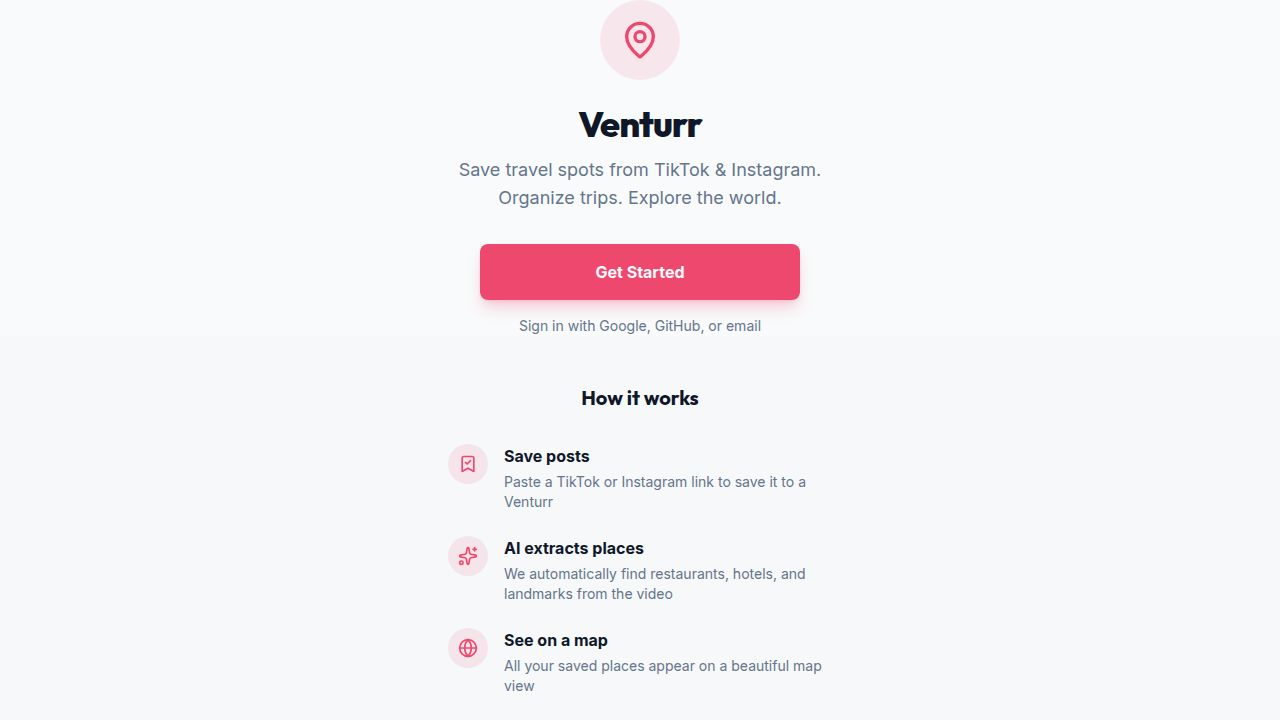
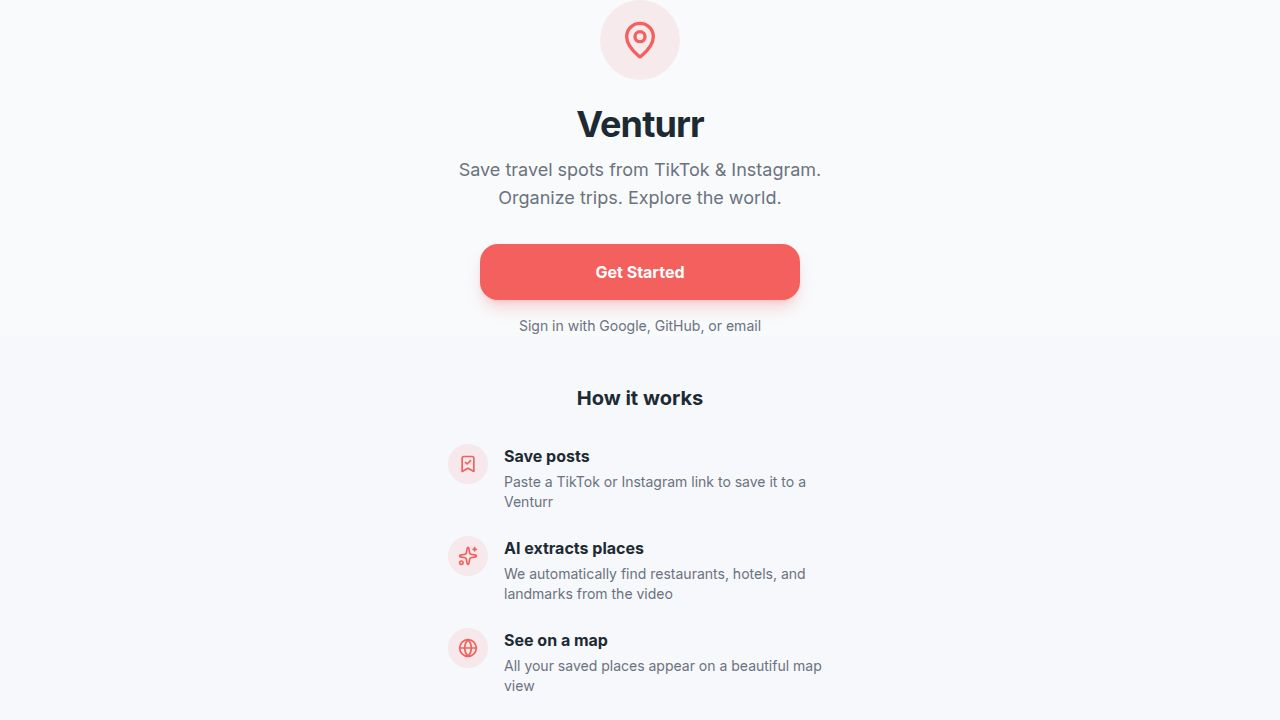
Update app design and styling to new brand standards
Apply new color palette, typography, and app icon across the application, updating styles in CSS, mobile color definitions, and app configuration.

Replit-Commit-Author: Agent
Replit-Commit-Session-Id: b501a51c-6f18-4266-89c9-7217e65b8779
Replit-Commit-Checkpoint-Type: intermediate_checkpoint
Replit-Commit-Event-Id: b0377623-d857-4f1b-a44d-a13ac360f58b
Replit-Commit-Screenshot-Url: https://storage.googleapis.com/screenshot-production-us-central1/9c2885cd-cb77-4d21-a283-5b8eb14639c5/b501a51c-6f18-4266-89c9-7217e65b8779/frAfLLM
Replit-Helium-Checkpoint-Created: true

diff --git a/client/src/index.css b/client/src/index.css
@@ -24,81 +24,93 @@
   --color-input: hsl(var(--input));
   --color-ring: hsl(var(--ring));
   
-  --font-sans: 'Inter', sans-serif;
-  --font-heading: 'Outfit', sans-serif;
+  /* Venturr Design System v1.0 */
+  --font-sans: 'Inter', -apple-system, SF Pro, system-ui, sans-serif;
   
-  --radius-lg: var(--radius);
-  --radius-md: calc(var(--radius) - 2px);
-  --radius-sm: calc(var(--radius) - 4px);
+  --radius-lg: 18px;
+  --radius-md: 14px;
+  --radius-sm: 8px;
   
-  --animate-in: fade-in 0.2s ease-out;
-  --animate-out: fade-out 0.2s ease-in;
-  --animate-slide-in-from-bottom: slide-in-from-bottom 0.3s cubic-bezier(0.16, 1, 0.3, 1);
-  --animate-slide-in-from-right: slide-in-from-right 0.3s cubic-bezier(0.16, 1, 0.3, 1);
+  --shadow-sm: 0 4px 14px rgba(31,41,51,0.08);
+  
+  --animate-in: fade-in 0.25s ease-in-out;
+  --animate-out: fade-out 0.25s ease-in-out;
+  --animate-slide-in-from-bottom: slide-in-from-bottom 0.3s ease-in-out;
+  --animate-slide-in-from-right: slide-in-from-right 0.3s ease-in-out;
 }
 
 :root {
-  /* Clean, iOS-inspired Light Mode */
-  --background: 210 20% 98%; /* Soft cool grey/white */
-  --foreground: 222 47% 11%;
+  /* Venturr Design System v1.0 - Light Mode */
+  --background: 210 40% 98%; /* Neutral 50 #F8FAFC */
+  --foreground: 208 26% 16%; /* Gunmetal 900 #1F2933 */
   
-  --card: 0 0% 100%;
-  --card-foreground: 222 47% 11%;
+  --card: 0 0% 100%; /* Neutral 0 #FFFFFF */
+  --card-foreground: 208 26% 16%; /* Gunmetal 900 */
   
   --popover: 0 0% 100%;
-  --popover-foreground: 222 47% 11%;
+  --popover-foreground: 208 26% 16%;
   
-  --primary: 346 84% 61%; /* Coral - Vibrant Travel Color */
-  --primary-foreground: 210 40% 98%;
+  --primary: 1 86% 66%; /* Coral 500 #F25F5C */
+  --primary-foreground: 0 0% 100%;
   
-  --secondary: 210 40% 96.1%;
-  --secondary-foreground: 222 47% 11.2%;
+  --secondary: 210 40% 96%;
+  --secondary-foreground: 208 26% 16%;
   
-  --muted: 210 40% 96.1%;
-  --muted-foreground: 215 16% 47%;
+  --muted: 210 40% 96%;
+  --muted-foreground: 220 8% 46%; /* Gunmetal 500 #6B7280 */
   
-  --accent: 210 40% 96.1%;
-  --accent-foreground: 222 47% 11.2%;
+  --accent: 210 40% 96%;
+  --accent-foreground: 208 26% 16%;
   
-  --destructive: 0 84.2% 60.2%;
-  --destructive-foreground: 210 40% 98%;
+  --destructive: 0 84% 60%;
+  --destructive-foreground: 0 0% 100%;
 
-  --border: 214 32% 91%;
+  --border: 214 32% 91%; /* Neutral 200 #E2E8F0 */
   --input: 214 32% 91%;
-  --ring: 346 84% 61%;
+  --ring: 1 86% 66%; /* Coral 500 */
   
-  --radius: 0.5rem;
+  /* Semantic colors */
+  --success: 158 54% 49%; /* #4CAF93 */
+  --warning: 42 90% 60%; /* #F4B740 */
+  --info: 220 92% 63%; /* #4C82F7 */
+  
+  --radius: 14px;
 }
 
 .dark {
-  /* Deep Modern Dark Mode */
-  --background: 222 47% 11%;
+  /* Venturr Design System v1.0 - Dark Mode */
+  --background: 208 26% 12%; /* Dark gunmetal */
   --foreground: 210 40% 98%;
   
-  --card: 222 47% 13%; /* Slightly lighter than bg */
+  --card: 208 26% 16%; /* Gunmetal 900 */
   --card-foreground: 210 40% 98%;
   
-  --popover: 222 47% 11%;
+  --popover: 208 26% 14%;
   --popover-foreground: 210 40% 98%;
   
-  --primary: 346 84% 61%;
-  --primary-foreground: 210 40% 98%;
+  --primary: 1 86% 66%; /* Coral 500 */
+  --primary-foreground: 0 0% 100%;
   
-  --secondary: 217 32% 17%;
+  --secondary: 208 20% 20%;
   --secondary-foreground: 210 40% 98%;
   
-  --muted: 217 32% 17%;
-  --muted-foreground: 215 20% 65%;
+  --muted: 208 20% 20%;
+  --muted-foreground: 220 8% 60%;
   
-  --accent: 217 32% 17%;
+  --accent: 208 20% 20%;
   --accent-foreground: 210 40% 98%;
   
-  --destructive: 0 62.8% 30.6%;
-  --destructive-foreground: 210 40% 98%;
+  --destructive: 0 84% 60%;
+  --destructive-foreground: 0 0% 100%;
   
-  --border: 217 32% 17%;
-  --input: 217 32% 17%;
-  --ring: 346 84% 61%;
+  --border: 208 20% 22%;
+  --input: 208 20% 22%;
+  --ring: 1 86% 66%; /* Coral 500 */
+  
+  /* Semantic colors */
+  --success: 158 54% 49%;
+  --warning: 42 90% 60%;
+  --info: 220 92% 63%;
 }
 
 @layer base {

diff --git a/mobile/lib/colors.ts b/mobile/lib/colors.ts
@@ -1,15 +1,27 @@
+/**
+ * Venturr Design System v1.0
+ * Color palette following brand guidelines
+ */
 export const colors = {
-  primary: '#FF385C',
-  primaryLight: '#FFE4E8',
-  background: '#FFFFFF',
-  surface: '#F7F7F7',
-  text: '#222222',
-  textSecondary: '#717171',
-  textMuted: '#B0B0B0',
-  border: '#EBEBEB',
-  success: '#00A699',
-  error: '#FF5A5F',
-  warning: '#FFB400',
+  // Primary Brand
+  primary: '#F25F5C', // Coral 500 - Primary CTAs
+  primaryLight: '#FCEAEA', // Light coral for backgrounds
+  
+  // Gunmetal - Text hierarchy
+  text: '#1F2933', // Gunmetal 900 - Headlines, primary text
+  textSecondary: '#3A4753', // Gunmetal 700 - Secondary text
+  textMuted: '#6B7280', // Gunmetal 500 - Metadata, icons
+  
+  // Neutrals - Layout & surfaces
+  background: '#F8FAFC', // Neutral 50 - App background
+  surface: '#FFFFFF', // Neutral 0 - Cards
+  border: '#E2E8F0', // Neutral 200 - Borders
+  
+  // Semantic
+  success: '#4CAF93',
+  error: '#F25F5C', // Use primary for destructive
+  warning: '#F4B740',
+  info: '#4C82F7',
 };
 
 export const spacing = {
@@ -22,8 +34,18 @@ export const spacing = {
 
 export const radius = {
   sm: 8,
-  md: 12,
-  lg: 16,
+  md: 14, // Primary card radius
+  lg: 18, // Large cards
   xl: 24,
   full: 9999,
+};
+
+export const shadow = {
+  sm: {
+    shadowColor: '#1F2933',
+    shadowOffset: { width: 0, height: 4 },
+    shadowOpacity: 0.08,
+    shadowRadius: 14,
+    elevation: 3,
+  },
 };

diff --git a/replit.md b/replit.md
@@ -60,12 +60,51 @@ All endpoints require authentication (except /api/login, /api/logout, /api/callb
 - `POST /api/collections/:id/posts` - Add post (triggers AI extraction)
 - `GET /api/collections/:id/places` - Get places in Venturr
 
-## User Preferences
-- Design: Modern iOS-style with coral primary color (#FF385C)
-- Typography: Outfit for headings, Inter for body text
-- Corners: 0.5rem/8px rounded (not overly bubbly)
+## Venturr Design System v1.0
+
+### Brand Personality
+Quietly smart, calm, modern, intentional, trustworthy. Think: Pinterest + Notion + maps, not Expedia or TikTok.
+
+### Color Palette
+```css
+/* Primary */
+--coral-500: #F25F5C;      /* Primary CTAs, brand accent */
+
+/* Gunmetal - Text hierarchy */
+--gunmetal-900: #1F2933;   /* Headlines, primary text */
+--gunmetal-700: #3A4753;   /* Secondary text */
+--gunmetal-500: #6B7280;   /* Metadata, icons */
+
+/* Neutrals - Layout */
+--neutral-50: #F8FAFC;     /* App background */
+--neutral-0: #FFFFFF;      /* Cards */
+--neutral-200: #E2E8F0;    /* Borders */
+
+/* Semantic */
+--success: #4CAF93;
+--warning: #F4B740;
+--info: #4C82F7;
+```
+
+### Typography
+- Font: Inter (system fallback: -apple-system, SF Pro)
+- Headings: 600 weight
+- Body: 400 weight
+- No emojis in core UI
+
+### Spacing & Radius
+- radius-md: 14px (primary cards)
+- radius-lg: 18px (large cards)
+- shadow-sm: 0 4px 14px rgba(31,41,51,0.08)
+
+### Design Guidelines
+- Coral guides attention (CTAs, active states, highlights)
+- Never use coral for body text
+- Cards are the core metaphor (white on neutral background)
+- Be transparent about AI (label AI-suggested content)
 
 ## Recent Changes
+- 2026-01-02: Applied Venturr Design System v1.0 (new color palette, typography, app icon)
 - 2026-01-02: Renamed Search to Explore with map view showing all saved places
 - 2026-01-02: Added /api/places endpoint for fetching all user places across Venturrs
 - 2026-01-02: Added Explore tab to mobile app with place list and filters
